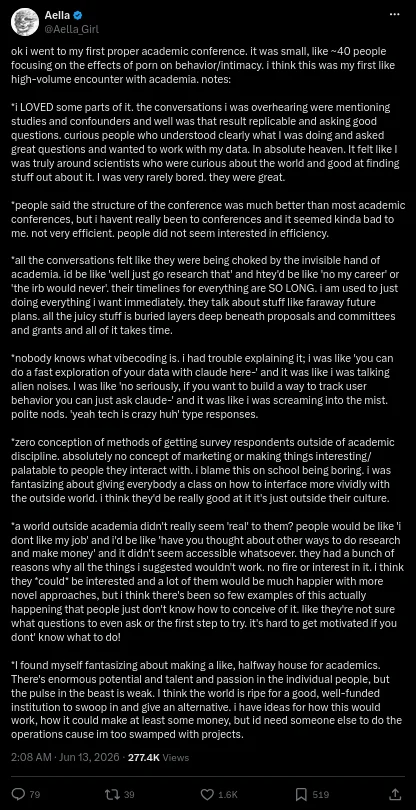
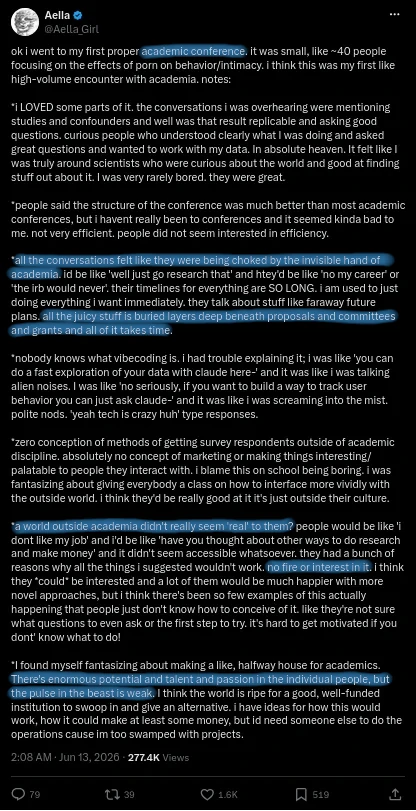
Show tweet screenshots larger, but never past their native size
The 550px cap made both screenshots smaller than they needed to be. The cap
is now 700px, and each image is allowed to grow only up to its own native
width: `width: auto` with `max-width: 100%` rather than `width: 100%`.

Scaling a screenshot beyond its real pixels does not make it more readable,
it makes it blurry — the tall one is 416px wide natively, so forcing it to
700px would have meant a 1.68x upscale. It now renders at 416px, sharp,
while the wide one fills the full 700px.

diff --git a/style/blog.css b/style/blog.css
@@ -154,12 +154,18 @@ body ul {
    and its alt text carries the full wording of the tweet. */
 .tweet-shot {
     display: block;
-    max-width: 550px;
+    width: fit-content;
+    max-width: min(700px, 100%);
     margin: 1.5em auto;
 }
 
+/* `width: auto` + `max-width: 100%` lets each screenshot grow up to its own
+   native size and no further: scaling one past its real pixels only makes it
+   blurry. The tall screenshot is 416px wide natively and stays there; the wide
+   one fills the 700px the container allows. */
 .tweet-shot img {
-    width: 100%;
+    width: auto;
+    max-width: 100%;
     height: auto;
     border-radius: 12px;
     border: 1px solid var(--text-color);
